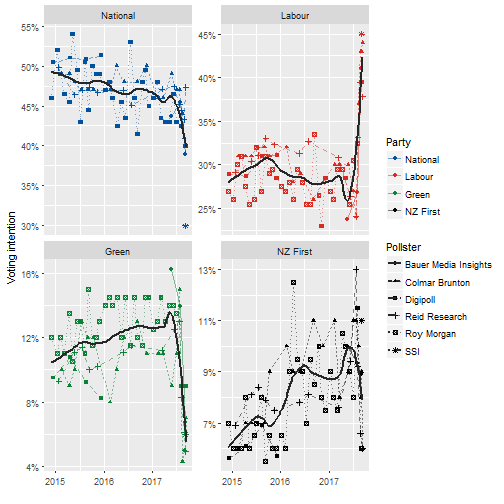
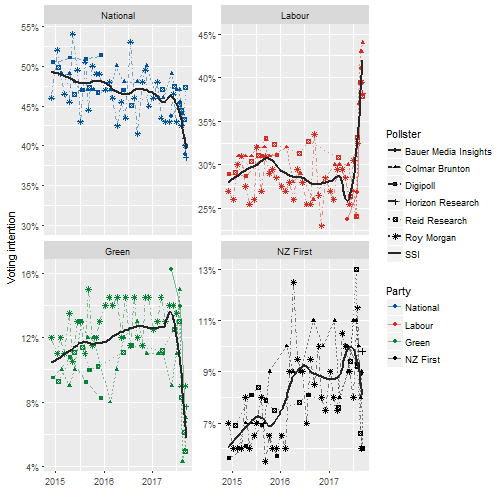
add Horizon poll

diff --git a/pkg1/inst/doc/README.html b/pkg1/inst/doc/README.html
@@ -259,7 +259,11 @@ polls %&gt;%
 <span class="st">    </span><span class="kw">scale_x_date</span>(<span class="st">&quot;&quot;</span>) +
 <span class="st">    </span><span class="kw">facet_wrap</span>(~Party, <span class="dt">scales =</span> <span class="st">&quot;free_y&quot;</span>) </code></pre></div>
 <pre><code>## `geom_smooth()` using method = 'loess'</code></pre>
[1 lines of base64/hex data omitted]
+<pre><code>## Warning: The shape palette can deal with a maximum of 6 discrete values
+## because more than 6 becomes difficult to discriminate; you have 7.
+## Consider specifying shapes manually if you must have them.</code></pre>
+<pre><code>## Warning: Removed 4 rows containing missing values (geom_point).</code></pre>
[1 lines of base64/hex data omitted]
 <p>Note that it is not appropriate to frequently update the version of <code>nzelect</code> on CRAN, so polling data will generally be out of date. The development version of <code>nzelect</code> from GitHub will be kept more up to date (but no promises exactly how much).</p>
 </div>
 <div id="usage---convenience-functions" class="section level2">
@@ -321,21 +325,20 @@ polls %&gt;%
 <span class="st">    </span><span class="kw">summarise</span>(<span class="dt">pundit_perc =</span> <span class="kw">round</span>(<span class="kw">sum</span>(VotingIntention *<span class="st"> </span>wt_p, <span class="dt">na.rm =</span> <span class="ot">TRUE</span>) /<span class="st"> </span><span class="kw">sum</span>(wt_p) *<span class="st"> </span><span class="dv">100</span>, <span class="dv">1</span>),
               <span class="dt">curia_perc =</span> <span class="kw">round</span>(<span class="kw">sum</span>(VotingIntention *<span class="st"> </span>wt_c, <span class="dt">na.rm =</span> <span class="ot">TRUE</span>) /<span class="st"> </span><span class="kw">sum</span>(wt_c) *<span class="st"> </span><span class="dv">100</span>, <span class="dv">1</span>)) %&gt;%
 <span class="st">    </span><span class="kw">ungroup</span>() %&gt;%
-<span class="st">    </span><span class="kw">filter</span>(pundit_perc &gt;<span class="st"> </span><span class="dv">0</span>) %&gt;%
 <span class="st">    </span><span class="kw">mutate</span>(<span class="dt">pundit_seats =</span> <span class="kw">allocate_seats</span>(pundit_perc, <span class="dt">electorate =</span> electorates)$seats_v,
            <span class="dt">curia_seats =</span> <span class="kw">allocate_seats</span>(curia_perc, <span class="dt">electorate =</span> electorates)$seats_v)</code></pre></div>
 <pre><code>## # A tibble: 9 x 5
 ##           Party pundit_perc curia_perc pundit_seats curia_seats
 ##           &lt;chr&gt;       &lt;dbl&gt;      &lt;dbl&gt;        &lt;dbl&gt;       &lt;dbl&gt;
-## 1           ACT         0.5        0.5            1           1
-## 2  Conservative         0.2        0.1            0           0
-## 3         Green         7.7        6.1            9           7
-## 4        Labour        35.5       37.7           43          46
-## 5          Mana         0.2        0.1            0           0
-## 6         Maori         1.3        1.4            2           2
-## 7      National        43.3       42.7           53          52
-## 8      NZ First         9.6        9.4           12          12
-## 9 United Future         0.1        0.0            1           1</code></pre>
+## 1           ACT         0.7        0.7            1           1
+## 2  Conservative         0.5        0.5            0           0
+## 3         Green         6.9        6.4            9           8
+## 4        Labour        40.0       41.1           49          50
+## 5          Mana         0.1        0.1            0           0
+## 6         Maori         1.2        1.3            1           2
+## 7      National        40.3       39.8           50          49
+## 8      NZ First         8.2        8.0           10          10
+## 9 United Future         0.0        0.0            1           1</code></pre>
 </div>
 </div>
 

diff --git a/pkg2/inst/doc/README.html b/pkg2/inst/doc/README.html
@@ -98,7 +98,7 @@ REGC2013$region &lt;-<span class="st"> </span><span class="kw">gsub</span>(<span
 <span class="st">    </span><span class="kw">scale_x_continuous</span>(<span class="st">&quot;Proportion of workers in public administration&quot;</span>, <span class="dt">label =</span> percent) +
 <span class="st">    </span><span class="kw">scale_y_continuous</span>(<span class="st">&quot;Proportion of individuals who stated status that have partners&quot;</span>, <span class="dt">label =</span> percent) +
 <span class="st">    </span><span class="kw">ggtitle</span>(<span class="st">&quot;New Zealand census 2013&quot;</span>)</code></pre></div>
[2 lines of base64/hex data omitted]
 <div class="sourceCode"><pre class="sourceCode r"><code class="sourceCode r"><span class="kw">ggplot</span>(Meshblocks2013, <span class="kw">aes</span>(<span class="dt">x =</span> WGS84Longitude, <span class="dt">y =</span> WGS84Latitude, <span class="dt">colour =</span> MedianIncome2013)) +
 <span class="st">    </span><span class="kw">borders</span>(<span class="st">&quot;nz&quot;</span>, <span class="dt">fill =</span> <span class="kw">terrain.colors</span>(<span class="dv">5</span>)[<span class="dv">3</span>], <span class="dt">colour =</span> <span class="ot">NA</span>) +
 <span class="st">    </span><span class="kw">geom_point</span>(<span class="dt">alpha =</span> <span class="fl">0.1</span>) +

diff --git a/README.md b/README.md
@@ -229,6 +229,16 @@ polls %>%
 ## `geom_smooth()` using method = 'loess'
 ```
 
+```
+## Warning: The shape palette can deal with a maximum of 6 discrete values
+## because more than 6 becomes difficult to discriminate; you have 7.
+## Consider specifying shapes manually if you must have them.
+```
+
+```
+## Warning: Removed 4 rows containing missing values (geom_point).
+```
+
 ![plot of chunk unnamed-chunk-6](figure/unnamed-chunk-6-1.png)
 
 Note that it is not appropriate to frequently update the version of `nzelect` on CRAN, so polling data will generally be out of date.  The development version of `nzelect` from GitHub will be kept more up to date (but no promises exactly how much).
@@ -307,7 +317,6 @@ polls %>%
     summarise(pundit_perc = round(sum(VotingIntention * wt_p, na.rm = TRUE) / sum(wt_p) * 100, 1),
               curia_perc = round(sum(VotingIntention * wt_c, na.rm = TRUE) / sum(wt_c) * 100, 1)) %>%
     ungroup() %>%
-    filter(pundit_perc > 0) %>%
     mutate(pundit_seats = allocate_seats(pundit_perc, electorate = electorates)$seats_v,
            curia_seats = allocate_seats(curia_perc, electorate = electorates)$seats_v)
 ```
@@ -316,16 +325,16 @@ polls %>%
 ## # A tibble: 10 x 5
 ##            Party pundit_perc curia_perc pundit_seats curia_seats
 ##            <chr>       <dbl>      <dbl>        <dbl>       <dbl>
-##  1           ACT         0.6        0.6            1           1
-##  2  Conservative         0.3        0.4            0           0
-##  3         Green         6.7        6.2            8           8
-##  4        Labour        40.3       41.5           48          50
+##  1           ACT         0.7        0.7            1           1
+##  2  Conservative         0.5        0.5            0           0
+##  3         Green         6.9        6.4            8           8
+##  4        Labour        40.0       41.1           49          49
 ##  5          Mana         0.1        0.1            0           0
-##  6         Maori         1.3        1.4            2           2
-##  7      National        40.6       39.9           49          48
-##  8      NZ First         7.9        7.8           10           9
-##  9           TOP         1.9        1.8            2           2
-## 10 United Future         0.1        0.1            0           0
+##  6         Maori         1.2        1.3            1           2
+##  7      National        40.3       39.8           49          48
+##  8      NZ First         8.2        8.0           10          10
+##  9           TOP         1.9        1.9            2           2
+## 10 United Future         0.0        0.0            0           0
 ```
 
 
